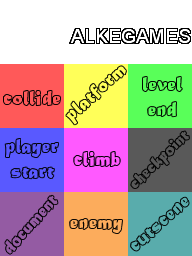
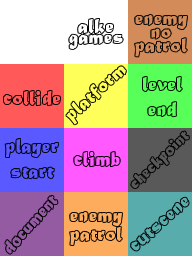
Enemies are now place from Tiled

Changed region(s): [[0.3438, 0.0, 1.0, 0.25], [0.3438, 0.8125, 0.6562, 0.9688]]

diff --git a/src/LevelOne.cpp b/src/LevelOne.cpp
@@ -75,75 +75,21 @@ void LevelOne::load(){
 	this->image = Game::instance().getResources().get("res/images/potion.png");
 	
 	this->playerHud = new PlayerHUD(lPlayer);
-	
-		
-	Enemy* lEnemy1 = new Enemy(3712.0, 1400.0, pathEnemy, false, 0.0);
-	
-	if(Game::instance().getSaves().isSaved(Game::instance().currentSlot)){
-		if(Game::instance().getSaves().isEnemyDead(0, Game::instance().currentSlot))
-			lEnemy1->setDead(true);
+
+	// Load all the enemies from the tileMap.
+	for(int i = 0; i < this->tileMap->getEnemiesX().size(); i++){
+		Enemy* enemy = new Enemy(this->tileMap->getEnemiesX().at(i),
+			this->tileMap->getEnemiesY().at(i), pathEnemy,
+			this->tileMap->getEnemiesPatrol().at(i), 0.0);
+
+		if(Game::instance().getSaves().isSaved(Game::instance().currentSlot)){
+			if(Game::instance().getSaves().isEnemyDead(i, Game::instance().currentSlot)){
+				enemy->setDead(true);
+			}
+		}
+		enemy->setLevelWH(this->width, this->height);
+		this->enemies.push_back(enemy);
 	}
-
-	lEnemy1->setLevelWH(this->width, this->height);
-	this->enemies.push_back(lEnemy1);
-
-	Enemy* lEnemy2 = new Enemy(4992.0, 1400.0, pathEnemy, false, 0.0);
-	if(Game::instance().getSaves().isSaved(Game::instance().currentSlot)){
-		if(Game::instance().getSaves().isEnemyDead(1, Game::instance().currentSlot))
-			lEnemy2->setDead(true);
-	}
-
-	lEnemy2->setLevelWH(this->width, this->height);
-	this->enemies.push_back(lEnemy2);
-
-	Enemy* lEnemy3 = new Enemy(5568.0, 1400.0, pathEnemy, true, 0.0);
-	
-	if(Game::instance().getSaves().isSaved(Game::instance().currentSlot)){
-		if(Game::instance().getSaves().isEnemyDead(2, Game::instance().currentSlot))
-			lEnemy3->setDead(true);
-	}
-
-	lEnemy3->setLevelWH(this->width, this->height);
-	this->enemies.push_back(lEnemy3);
-
-	Enemy* lEnemy4 = new Enemy(7104.0, 1400.0, pathEnemy, true, 0.0);
-	
-	if(Game::instance().getSaves().isSaved(Game::instance().currentSlot)){
-		if(Game::instance().getSaves().isEnemyDead(3, Game::instance().currentSlot))
-			lEnemy4->setDead(true);
-	}
-
-	lEnemy4->setLevelWH(this->width, this->height);
-	this->enemies.push_back(lEnemy4);
-
-	Enemy* lEnemy5 = new Enemy(8256.0, 1400.0, pathEnemy, true, 0.0);
-	
-	if(Game::instance().getSaves().isSaved(Game::instance().currentSlot)){
-		if(Game::instance().getSaves().isEnemyDead(4, Game::instance().currentSlot))
-			lEnemy5->setDead(true);
-	}
-
-	lEnemy5->setLevelWH(this->width, this->height);
-	this->enemies.push_back(lEnemy5);
-
-	Enemy* lEnemy6 = new Enemy(10560.0, 1400.0, pathEnemy, false, 0.0);
-	
-	if(Game::instance().getSaves().isSaved(Game::instance().currentSlot)){
-		if(Game::instance().getSaves().isEnemyDead(5, Game::instance().currentSlot))
-			lEnemy6->setDead(true);
-	}
-
-	lEnemy6->setLevelWH(this->width, this->height);
-	this->enemies.push_back(lEnemy6);
-
-	Enemy* lEnemy7 = new Enemy(10880.0, 1400.0, pathEnemy, false, 0.0);
-	if(Game::instance().getSaves().isSaved(Game::instance().currentSlot)){
-		if(Game::instance().getSaves().isEnemyDead(6, Game::instance().currentSlot))
-			lEnemy6->setDead(true);
-	}
-
-	lEnemy7->setLevelWH(this->width, this->height);
-	this->enemies.push_back(lEnemy7);
 
 	// Finally, setting the player and the camera.
 	setPlayer(lPlayer);

diff --git a/src/TileMap.cpp b/src/TileMap.cpp
@@ -103,8 +103,14 @@ void TileMap::load(const std::string& mapPath_){
 							SDL_Rect tileRect = {(int)(j * TILE_SIZE), (int)(k * TILE_SIZE), TILE_SIZE, TILE_SIZE};
 
 							if(property == "level_begin"){
-								initialX = tileRect.x;
-								initialY = tileRect.y;
+								this->initialX = tileRect.x;
+								this->initialY = tileRect.y;
+								continue;
+							}
+							else if(property == "enemy_patrol" || property == "enemy_no_patrol"){
+								this->enemiesX.push_back(tileRect.x);
+								this->enemiesY.push_back(tileRect.y);
+								this->enemiesPatrol.push_back((property == "enemy_patrol") ? true : false);
 								continue;
 							}
 
@@ -246,3 +252,14 @@ double TileMap::getInitialY(){
 	return (double)this->initialY;
 }
 
+std::vector<int>& TileMap::getEnemiesX(){
+	return this->enemiesX;
+}
+
+std::vector<int>& TileMap::getEnemiesY(){
+	return this->enemiesY;
+}
+
+std::vector<bool>& TileMap::getEnemiesPatrol(){
+	return this->enemiesPatrol;
+}

diff --git a/include/TileMap.h b/include/TileMap.h
@@ -41,6 +41,10 @@ class TileMap {
 		double getInitialX();
 		double getInitialY();
 
+		std::vector<int>& getEnemiesX();
+		std::vector<int>& getEnemiesY();
+		std::vector<bool>& getEnemiesPatrol();		
+
 	private:
 		/**
 		*
@@ -74,6 +78,10 @@ class TileMap {
 		std::vector <Sprite*> tilesetSprites;
 
 		std::vector <CollisionRect> collisionRects;
+
+		std::vector<int> enemiesX;
+		std::vector<int> enemiesY;
+		std::vector<bool> enemiesPatrol;
 
 };
 
